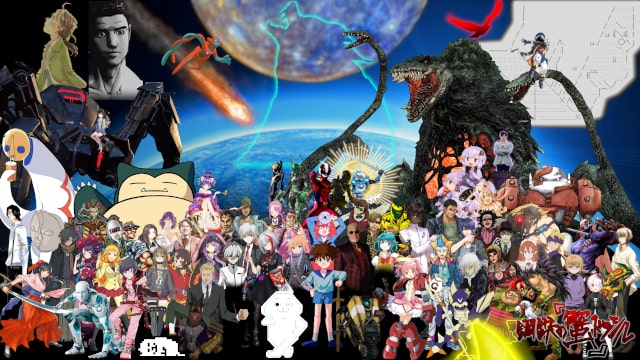
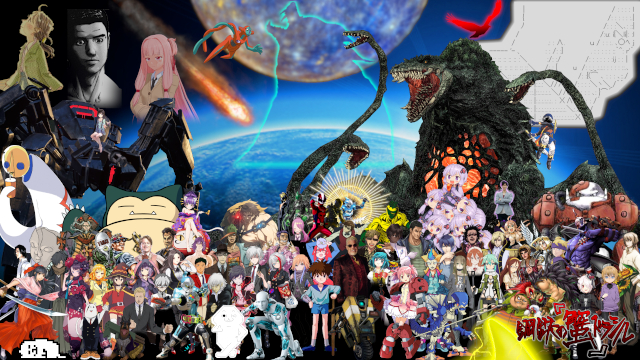
集合写真更新

diff --git a/docs/gallery/ygg/collage.html b/docs/gallery/ygg/collage.html
@@ -30,7 +30,7 @@
 	</tr>
 	<tr>
 		<td colspan="4" align="center" height="450px">
-			<a href="https://drive.google.com/file/d/1zVLENnyu_FMvUkcOKXNQ0l39qJtWIQjX/preview" data-lity="data-lity" title="【カニドラ集合写真_v0.66】">
+			<a href="https://drive.google.com/file/d/1OZvTO1xRvU4sFplnltekSnveClB0LP72/preview" data-lity="data-lity" title="【カニドラ集合写真_v0.67】">
 			<img src="collage/img_00.jpg" width="600px"></a>
 		</td>
 	</tr>
